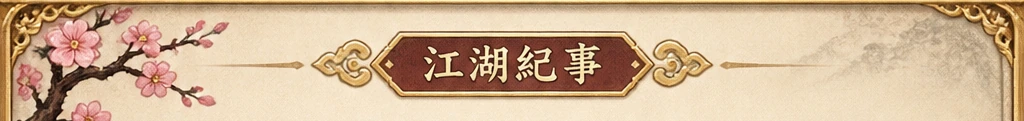
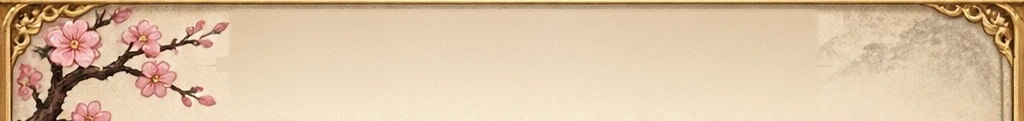
Shrink the HUD portrait, drop the story title plaque and mountain strip (v6.11.1)
The top-left portrait is now 56x76 (smaller on narrow phones) with the freed
width given to the stats column. The story header image no longer carries the
江湖紀事 plaque, its side ornaments or guide lines; the blossom branch and the
corner flourish stay. The mountain panorama behind the paragraph counter and
the event landscape strip are removed. The visual smoke test now expects a
compact portrait instead of an enlarged one.

Claude-Session: https://claude.ai/code/session_01EmaEuv1d7PtozXXxV8mYUy

Changed region(s): [[0.2188, 0.124, 0.8125, 0.843], [0.75, 0.2727, 0.7812, 0.2975]]

diff --git a/css/v16-trim.css b/css/v16-trim.css
@@ -1,0 +1,17 @@
+/* v16 縮小左上角的人物頭像，並讓出空間給右邊的資訊。 */
+#app:is([data-page="world"],[data-page="me"],[data-page="bag"]) .hud-core{grid-template-columns:56px minmax(88px,1fr) 126px 25px}
+#app:is([data-page="world"],[data-page="me"],[data-page="bag"]) .hport{width:56px;height:76px}
+@media(max-width:410px){
+  #app:is([data-page="world"],[data-page="me"],[data-page="bag"]) .hud-core{grid-template-columns:52px minmax(78px,1fr) 119px 23px}
+  #app:is([data-page="world"],[data-page="me"],[data-page="bag"]) .hport{width:52px;height:70px}
+}
+@media(max-width:355px){
+  #app:is([data-page="world"],[data-page="me"],[data-page="bag"]) .hud-core{grid-template-columns:48px minmax(0,1fr) 24px}
+  #app:is([data-page="world"],[data-page="me"],[data-page="bag"]) .hport{width:48px;height:66px}
+}
+@media(orientation:landscape) and (max-height:500px){
+  #app:is([data-page="world"],[data-page="me"],[data-page="bag"]) .hud-core{grid-template-columns:44px minmax(90px,1fr) 130px 23px}
+  #app:is([data-page="world"],[data-page="me"],[data-page="bag"]) .hport{width:44px;height:60px}
+}
+/* 移除段落頁碼區塊上方的山水背景圖與預留的空白 */
+#app[data-page="world"] .reader-folio{background:none!important;padding-top:0!important;margin:10px 0 3px!important}

diff --git a/js/ui.js b/js/ui.js
@@ -475,9 +475,7 @@ function eventReader(o) {
   // 常見小事件以文字為主；只有重要事件或有登場人物時展示短畫幅。
   const media = o.who && FACES.includes(o.who)
     ? `<div class="reader-media reader-character">${face(o.who, 'reader-face')}</div>`
-    : o.big && o.art
-      ? `<div class="reader-media reader-landscape">${art(o.art, o.title)}</div>`
-      : '';
+    : '';   // 不再顯示事件風景圖，只在有登場人物時顯示人物
   let controls;
   if (o.result) {
     controls = B('繼續', closeEvent, 'story-option');

diff --git a/index.html b/index.html
@@ -15,6 +15,7 @@
 <link rel="stylesheet" href="css/v13-restore-battle.css?v=20261122-restore-d20-v13">
 <link rel="stylesheet" href="css/v14-bag-reference.css?v=20261122-bag-v14">
 <link rel="stylesheet" href="css/v15-skill-reference.css?v=20261122-skill-v15">
+<link rel="stylesheet" href="css/v16-trim.css?v=20261123-trim-v16">
 </head>
 <body>
 <div id="app"></div>

diff --git a/js/data.js b/js/data.js
@@ -1,7 +1,7 @@
 /* 江湖歲月錄 — 資料：地點、門派、武功、物品、人物 */
 'use strict';
 
-const VERSION = 'v6.11.0';
+const VERSION = 'v6.11.1';
 // 人物立繪：LinXueLian（linxuelian.itch.io）手繪素材，CC BY-SA 4.0，經合成與裁切
 const FACES = ['su', 'hua', 'li', 'gu', 'shen', 'qin', 'elder', 'boss', 'kid', 'pei'];
 

diff --git a/css/v9-ornate-story.css b/css/v9-ornate-story.css
@@ -36,7 +36,7 @@
   height:clamp(40px,11.5vw,59px);
   min-height:40px;
   pointer-events:none;
-  background-image:url("../assets/ui/v9/story-header.webp");
+  background-image:url("../assets/ui/v9/story-header.webp?v=nobanner");
   background-position:center top;
   background-size:100% 100%;
   background-repeat:no-repeat;
